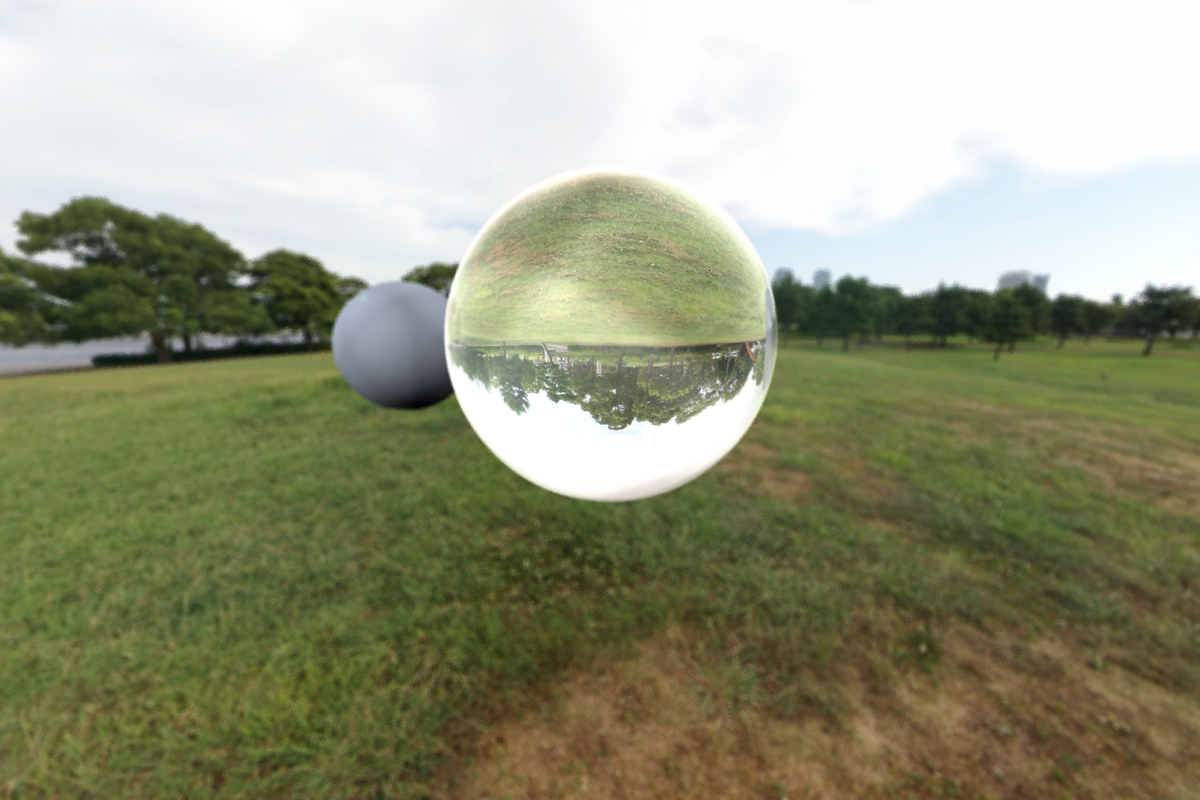
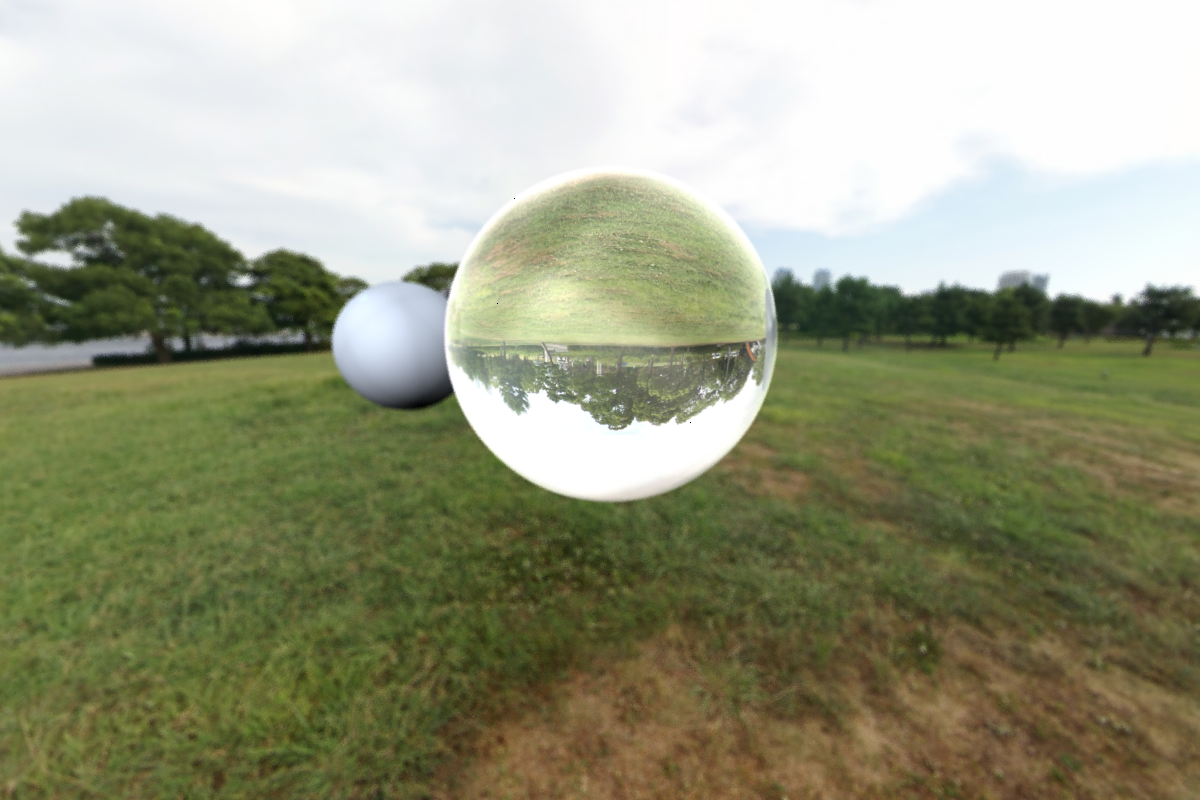
use area light for example 8

Changed region(s): [[0.2775, 0.3438, 0.37, 0.5], [0.4317, 0.2188, 0.4933, 0.25], [0.4008, 0.25, 0.4317, 0.2812]]

diff --git a/src/example_scenes.cpp b/src/example_scenes.cpp
@@ -687,7 +687,7 @@ Scene *initScene8() {
  addLight(scene, initPointLight(point3(0, 1, -19), color3(1,1,1)));
  
   auto light = new AreaLight(vec3(5,4,-5), vec3(-4,0,0), 2, vec3(0,0,-4), 2, color3(1,1,1));
-  //addLight(scene, light);
+  addLight(scene, light);
   //light = new AreaLight(vec3(54,10,18), vec3(-4,0,0), 2, vec3(0,0,-4), 2, color3(1,1,1));
   //addLight(scene, light);
   //light = new AreaLight(vec3(18,10,54), vec3(-4,0,0), 2, vec3(0,0,-4), 2, color3(1,1,1));
